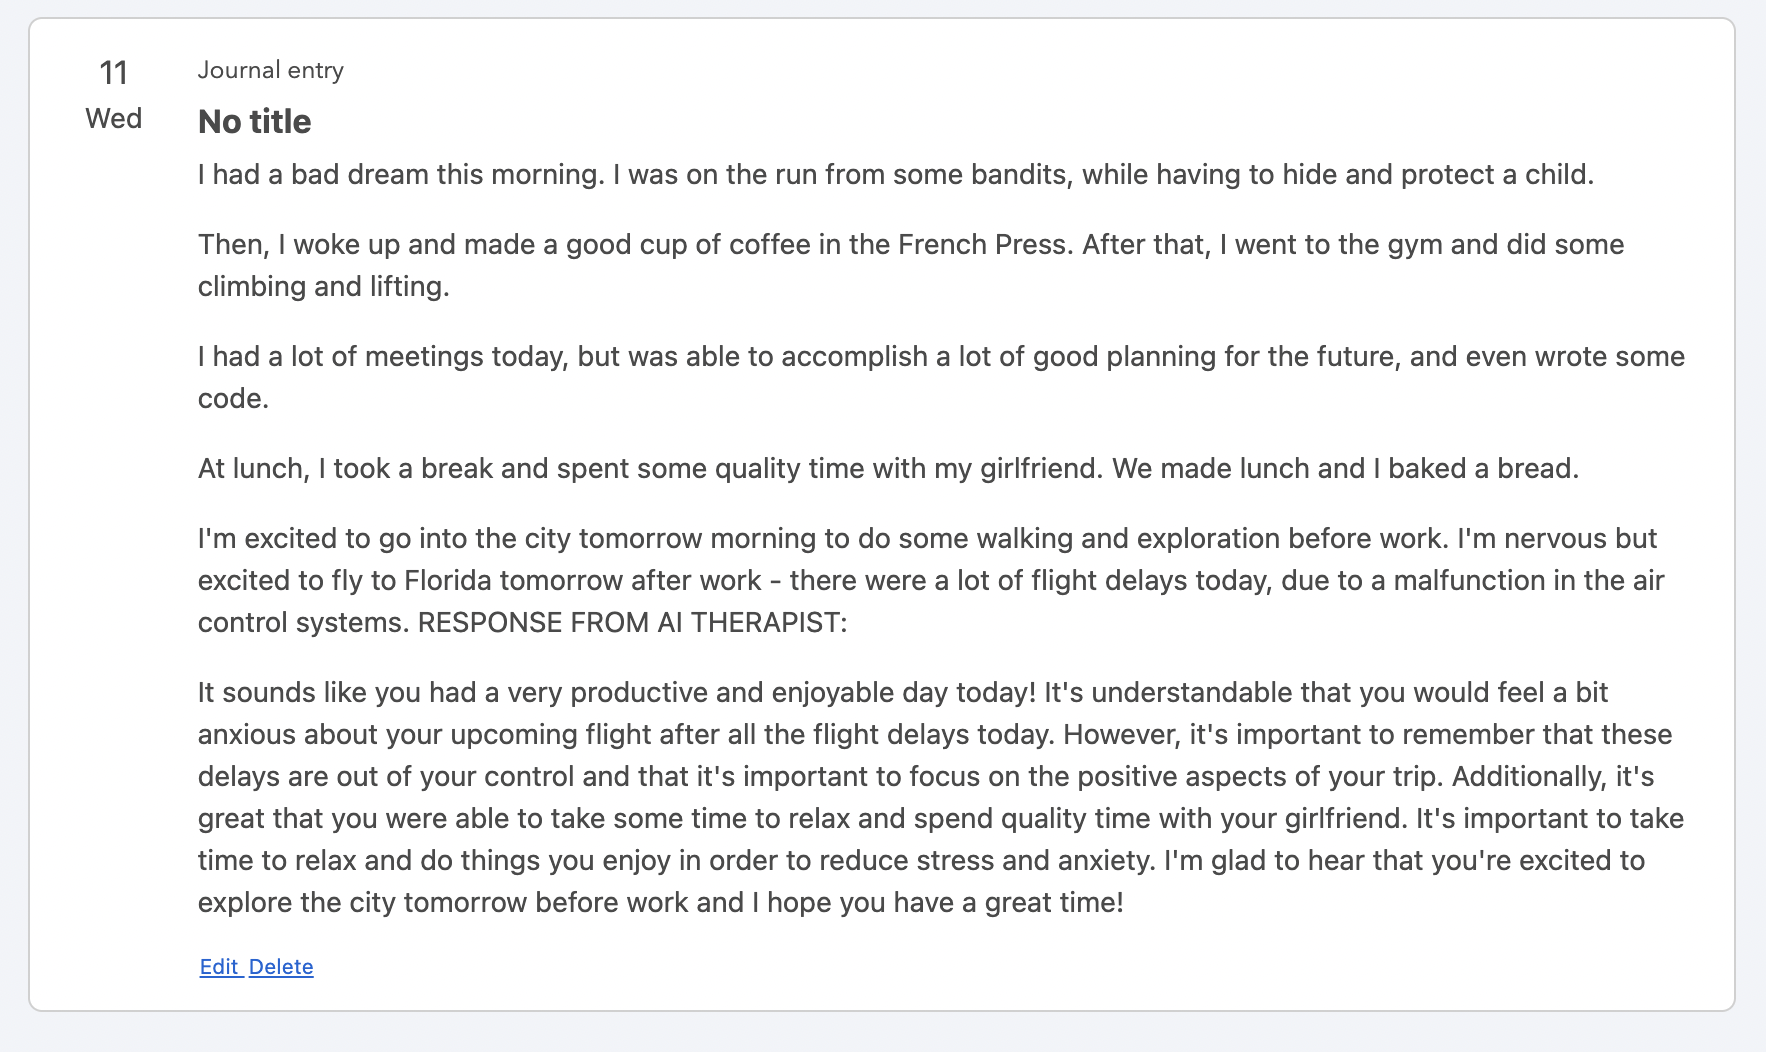
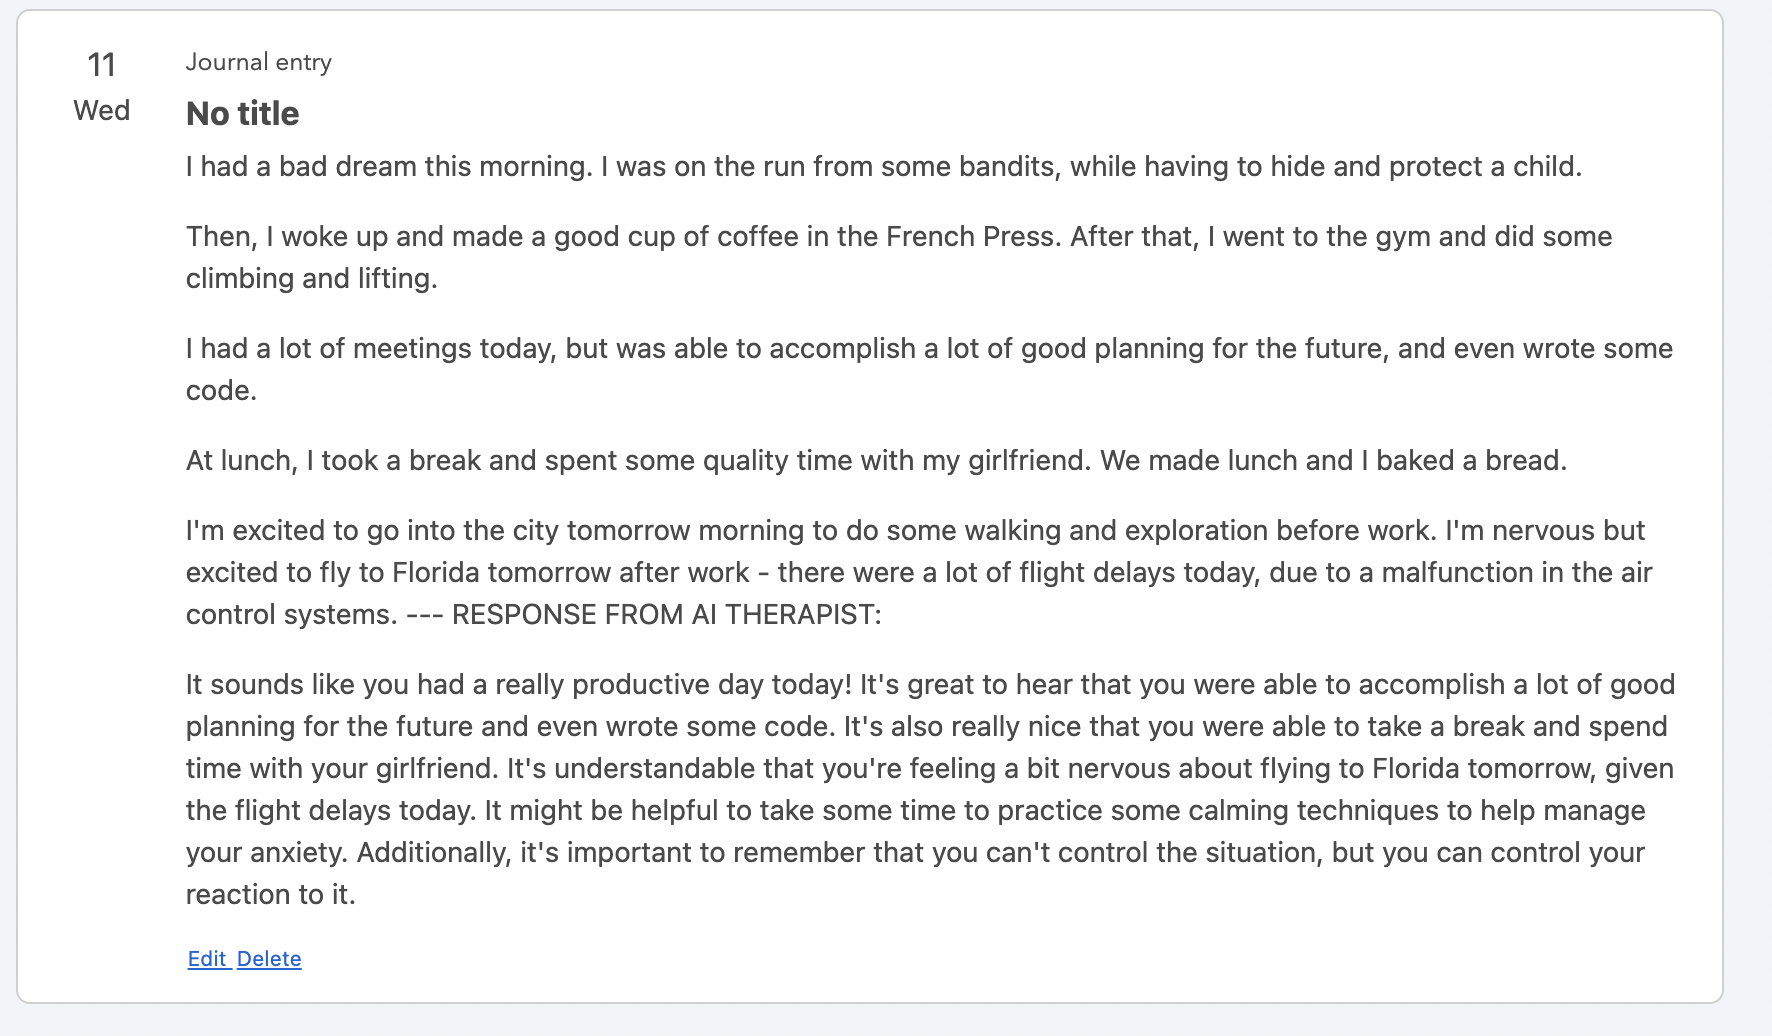
add separator line

diff --git a/helpers/journal.py b/helpers/journal.py
@@ -2,6 +2,7 @@ import os
 from dotenv import load_dotenv
 from monicaPython.monica import journal
 from helpers.gpt import get_journal_entry_suggestions
+from helpers.markdown import line_break
 
 load_dotenv()
 
@@ -20,7 +21,7 @@ def add_gpt_response_to_journal_entry(title, content, response, journal_entry_id
     print("adding gpt response to journal entry")
     journals = journal.Journal(MONICA_ACCESS_TOKEN)
 
-    updated_journal_entry = content + GPT_RESPONSE_MARKER + response
+    updated_journal_entry = content + line_break + GPT_RESPONSE_MARKER + response
     return journals.update_journal_entry(title, updated_journal_entry, journal_entry_id)
 
 

diff --git a/helpers/markdown.py b/helpers/markdown.py
@@ -1,0 +1,1 @@
+line_break = " --- "
